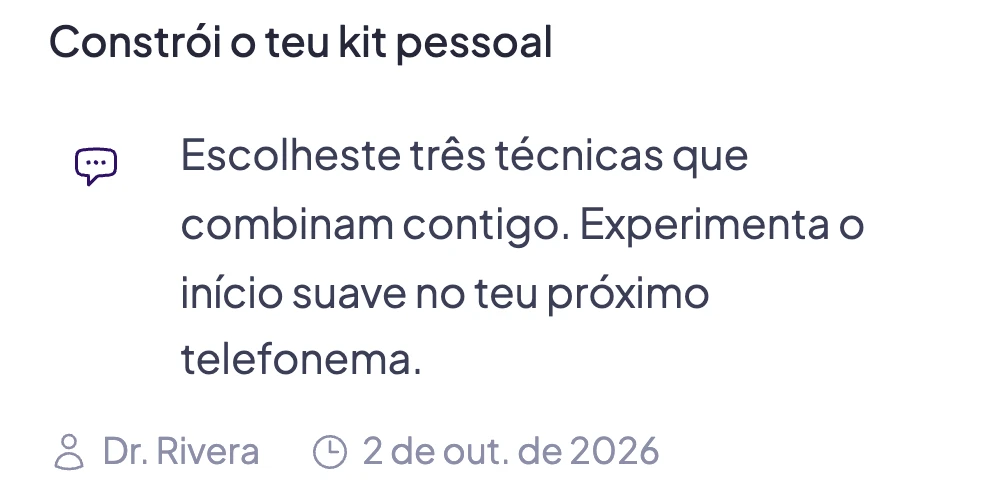
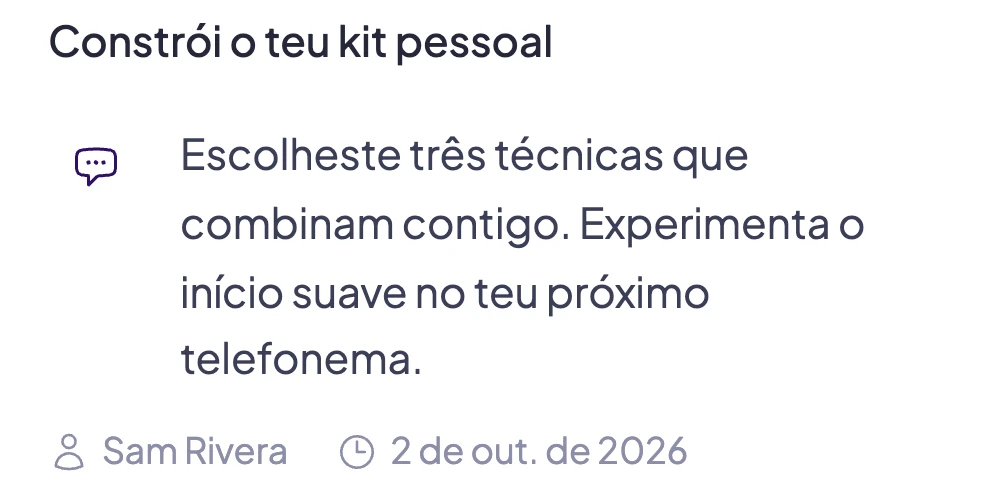
fix(D62): timeline dots, neutral therapist name, no gendered pronoun in the hero copy

Changed region(s): [[0.0915, 0.87, 0.7012, 0.96]]

diff --git a/src/pages/ForPatients.tsx b/src/pages/ForPatients.tsx
@@ -163,7 +163,7 @@ export default function ForPatients() {
                   {t.intro.headlineLine1} <br />
                   {t.intro.headlineLine2}
                 </h1>
-                <p className="mt-6 max-w-2xl font-body text-lg text-calm-charcoal/80 leading-relaxed">
+                <p className="mt-6 max-w-2xl font-body text-lg text-calm-charcoal/90 leading-relaxed">
                   {t.intro.body}
                 </p>
                 {(APP_STORE_URL || PLAY_STORE_URL) && (
@@ -179,16 +179,14 @@ export default function ForPatients() {
                     {i === 0 && (
                       <span
                         aria-hidden="true"
-                        className="absolute left-[13px] top-7 -bottom-6 w-0.5 bg-calm-lavender/60"
+                        className="absolute left-[13px] top-[1.1rem] -bottom-6 w-0.5 bg-calm-lavender/60"
                       />
                     )}
-                    <p className="relative mb-3 flex items-center gap-3 font-body text-sm font-semibold text-calm-navy">
+                    <p className="mb-3 flex items-center gap-3 font-body text-sm font-semibold text-calm-navy">
                       <span
                         aria-hidden="true"
-                        className="flex h-7 w-7 items-center justify-center rounded-full bg-calm-lavender font-heading text-sm font-extrabold tabular-nums"
-                      >
-                        {i + 1}
-                      </span>
+                        className="ml-2 h-3 w-3 shrink-0 rounded-full bg-calm-lavender"
+                      />
                       {t.intro.exchange[`${key}Label`]}
                     </p>
                     <img

diff --git a/src/i18n/locales/pt.ts b/src/i18n/locales/pt.ts
@@ -362,12 +362,12 @@ export const pt: Dictionary = {
       eyebrow: "Para pacientes",
       headlineLine1: "A tua prática,",
       headlineLine2: "entre sessões.",
-      body: "O teu terapeuta escolhe os exercícios. Tu fazes-os em casa, no telemóvel, e ele vê como correu cada um.",
+      body: "O teu terapeuta escolhe os exercícios. Tu fazes-os em casa, no telemóvel, e o terapeuta vê como correu cada um.",
       exchange: {
-        todayLabel: "Definida para ti",
+        todayLabel: "Do teu terapeuta",
         todayAlt:
           "O painel do paciente: a prática de hoje, definida pelo terapeuta, com um botão para começar",
-        replyLabel: "Dr. Rivera responde",
+        replyLabel: "Sam Rivera responde",
         replyAlt: "Uma nota do terapeuta sobre uma gravação do paciente",
       },
       inviteNote: "O teu terapeuta envia-te um convite para começares.",

diff --git a/src/i18n/locales/es.ts b/src/i18n/locales/es.ts
@@ -361,12 +361,12 @@ export const es: Dictionary = {
       eyebrow: "Para pacientes",
       headlineLine1: "Tu práctica,",
       headlineLine2: "entre sesiones.",
-      body: "Tu logopeda elige los ejercicios. Tú los haces en casa, desde el móvil, y él ve cómo ha ido cada uno.",
+      body: "Tu logopeda elige los ejercicios. Tú los haces en casa, desde el móvil, y tu logopeda ve cómo ha ido cada uno.",
       exchange: {
-        todayLabel: "Definida para ti",
+        todayLabel: "De tu terapeuta",
         todayAlt:
           "El panel del paciente: la práctica de hoy, definida por el terapeuta, con un botón para empezar",
-        replyLabel: "Dr. Rivera responde",
+        replyLabel: "Sam Rivera responde",
         replyAlt: "Una nota del terapeuta sobre una grabación del paciente",
       },
       inviteNote: "Tu logopeda te envía una invitación para empezar.",

diff --git a/src/i18n/locales/en.ts b/src/i18n/locales/en.ts
@@ -362,10 +362,10 @@ export const en = {
       headlineLine2: "between sessions.",
       body: "Your therapist picks the exercises. You do them at home on your phone, and they see how each one went.",
       exchange: {
-        todayLabel: "Set for you",
+        todayLabel: "From your therapist",
         todayAlt:
           "The patient dashboard: today's practice, set by the therapist, with a button to start",
-        replyLabel: "Dr. Rivera replies",
+        replyLabel: "Sam Rivera replies",
         replyAlt: "A note from the therapist on a recording the patient made",
       },
       inviteNote: "Your therapist sends you an invite to start.",
